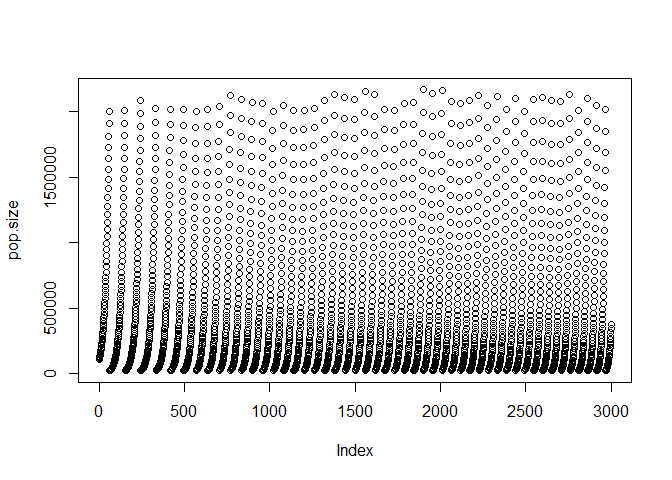
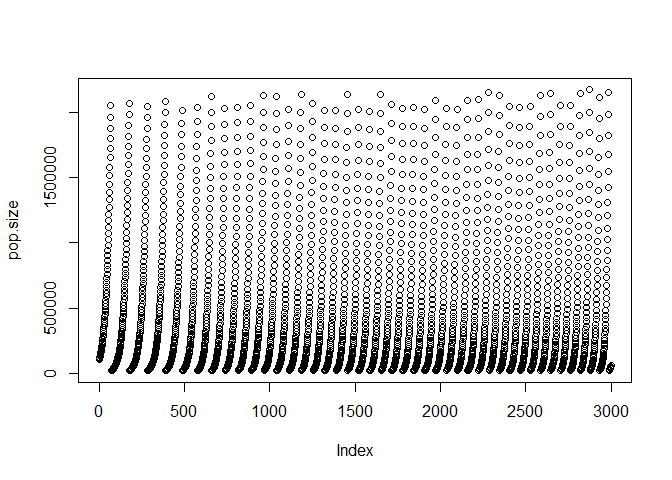
updated examples

Changed region(s): [[0.125, 0.1875, 0.9375, 0.7812]]

diff --git a/examples/example_1/README.md b/examples/example_1/README.md
@@ -1,6 +1,10 @@
-Ensure ABM is compiled, root dir is set to correct location of ALFA-K,
-and the cpp_source is correctly set to the path of the ABM executable
-file.
+**This example illustrates how to fit a landscape using ALFA-K and run
+an ABM simulation using the fitted landscape**
+
+We will fit ALFA-K to data generated using the ABM simulated with a
+random artificial fitness landscape. First, ensure ABM is compiled, root
+dir is set to correct location of ALFA-K, and the cpp_source is
+correctly set to the path of the ABM executable file.
 
 ``` r
 cpp_source <- "ABM/bin/ABM"
@@ -109,7 +113,7 @@ output_subdir <- paste(output_dir,list.files(output_dir)[1],sep="/")
 head(list.files(output_subdir))
 ```
 
-    ## [1] "00000.csv" "00059.csv" "00151.csv" "00243.csv" "00332.csv" "00417.csv"
+    ## [1] "00000.csv" "00069.csv" "00176.csv" "00282.csv" "00387.csv" "00485.csv"
 
 ``` r
 pop.size <- readLines(paste0(output_subdir,"/summary.txt"))
@@ -152,20 +156,20 @@ x <- proc_sim(dir=output_subdir,times = seq(0,2800,400))
 print(head(x$x[order(rowSums(x$x),decreasing = T),]))
 ```
 
-    ##                                               0 417 769 1200 1615 2008 2384
-    ## 2.2.2.2.2.2.2.2.2.2.2.2.2.2.2.2.2.2.2.2.2.2 996 545   2    0    0    0    0
-    ## 1.2.2.2.1.1.2.2.1.1.1.2.2.2.2.2.2.2.2.2.2.2   0   0   1    4  125  476  495
-    ## 2.2.2.2.1.1.2.2.2.2.2.2.2.2.2.2.2.2.2.2.1.1   0   2 240  566  341   47    0
-    ## 2.2.2.2.1.1.2.2.2.2.2.2.2.2.2.2.2.2.2.2.2.2   0 121 278   16    2    0    0
-    ## 2.2.2.2.1.1.1.3.1.2.2.2.2.2.2.3.3.2.2.2.1.1   0   0   0    0    2   58  127
-    ## 2.2.2.2.1.1.2.2.2.2.2.2.2.2.2.2.3.2.2.2.1.2   0   1  63  133   87   16    2
-    ##                                             2809
+    ##                                                0 387 813 1183 1584 1970 2404
+    ## 2.2.2.2.2.2.2.2.2.2.2.2.2.2.2.2.2.2.2.2.2.2 1035 761  13    0    0    0    0
+    ## 1.1.2.2.2.2.2.2.2.3.2.2.2.2.2.2.2.2.1.2.2.2    0   0   4  210  467  332   87
+    ## 1.1.2.2.2.2.2.2.2.2.2.2.2.2.2.2.2.2.2.2.2.2    0  37 593  223    8    0    0
+    ## 1.1.2.2.2.2.2.2.1.4.2.2.2.2.2.2.2.2.1.2.2.2    0   0   0    0    3   29  172
+    ## 1.1.2.2.2.2.2.2.2.3.2.2.2.2.2.2.2.1.1.1.1.1    0   0   7   78  127  116   24
+    ## 1.1.2.2.2.2.2.2.2.4.2.2.2.3.2.2.2.2.1.2.2.2    0   0   0    0   10   54  149
+    ##                                             2817
     ## 2.2.2.2.2.2.2.2.2.2.2.2.2.2.2.2.2.2.2.2.2.2    0
-    ## 1.2.2.2.1.1.2.2.1.1.1.2.2.2.2.2.2.2.2.2.2.2  260
-    ## 2.2.2.2.1.1.2.2.2.2.2.2.2.2.2.2.2.2.2.2.1.1    0
-    ## 2.2.2.2.1.1.2.2.2.2.2.2.2.2.2.2.2.2.2.2.2.2    0
-    ## 2.2.2.2.1.1.1.3.1.2.2.2.2.2.2.3.3.2.2.2.1.1  215
-    ## 2.2.2.2.1.1.2.2.2.2.2.2.2.2.2.2.3.2.2.2.1.2    0
+    ## 1.1.2.2.2.2.2.2.2.3.2.2.2.2.2.2.2.2.1.2.2.2    6
+    ## 1.1.2.2.2.2.2.2.2.2.2.2.2.2.2.2.2.2.2.2.2.2    0
+    ## 1.1.2.2.2.2.2.2.1.4.2.2.2.2.2.2.2.2.1.2.2.2  165
+    ## 1.1.2.2.2.2.2.2.2.3.2.2.2.2.2.2.2.1.1.1.1.1    1
+    ## 1.1.2.2.2.2.2.2.2.4.2.2.2.3.2.2.2.2.1.2.2.2   85
 
 Estimate fitness landscape:
 
@@ -206,12 +210,10 @@ fit <- alfak(x,min_obs = 20)
     ## [1] 32
     ## [1] 33
     ## [1] 34
-    ## [1] 35
-    ## [1] 36
     ## Warning: 
     ## Grid searches over lambda (nugget and sill variances) with  minima at the endpoints: 
     ##   (REML) Restricted maximum likelihood 
-    ##    minimum at  right endpoint  lambda  =  0.03627878 (eff. df= 1277.75 )
+    ##    minimum at  right endpoint  lambda  =  0.03672803 (eff. df= 1223.6 )
 
 ``` r
 xmat <- do.call(rbind,lapply(rownames(fit$xo), function(i){

diff --git a/examples/example_2/README.md b/examples/example_2/README.md
@@ -1,5 +1,5 @@
-This example illustrates a leave-one-out cross validation procedure to
-validate ALFA-K if no ground truth data is available.
+**This example illustrates a leave-one-out cross validation procedure to
+validate ALFA-K if no ground truth data is available.**
 
 ``` r
 source("utils/ALFA-K.R")
@@ -120,4 +120,4 @@ plot(df$pred,xfq$f_est)
 cor(df$pred,xfq$f_est)
 ```
 
-    ## [1] 0.6914932
+    ## [1] 0.7071852

diff --git a/examples/example_0/README.md b/examples/example_0/README.md
@@ -1,5 +1,5 @@
-Visualizing karyotype frequencies in the input data and overlay ALFA-K
-fit results.
+**This example shows how to visualize karyotype frequencies from the
+input data and overlay ALFA-K fit results on the plots.**
 
 ``` r
 library(ggplot2)
